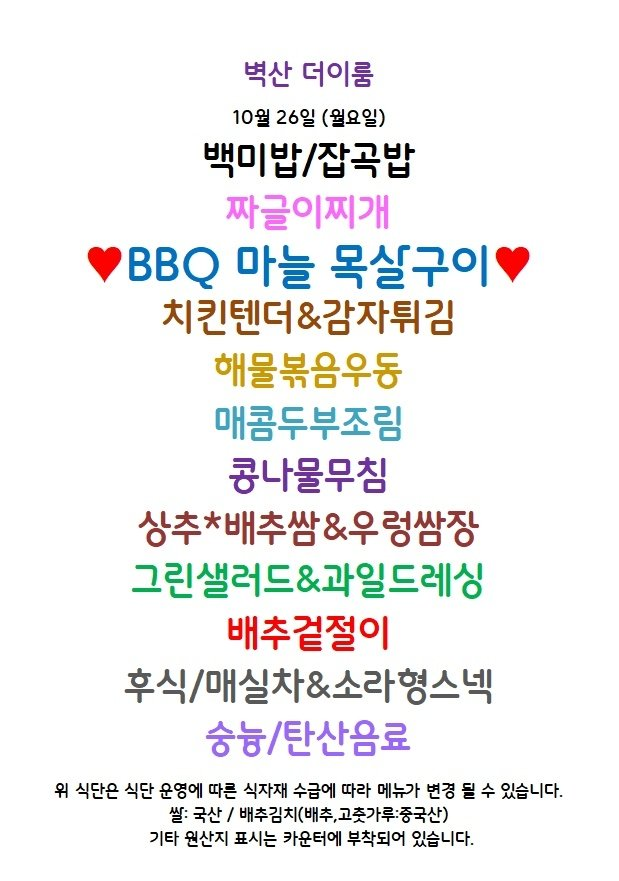
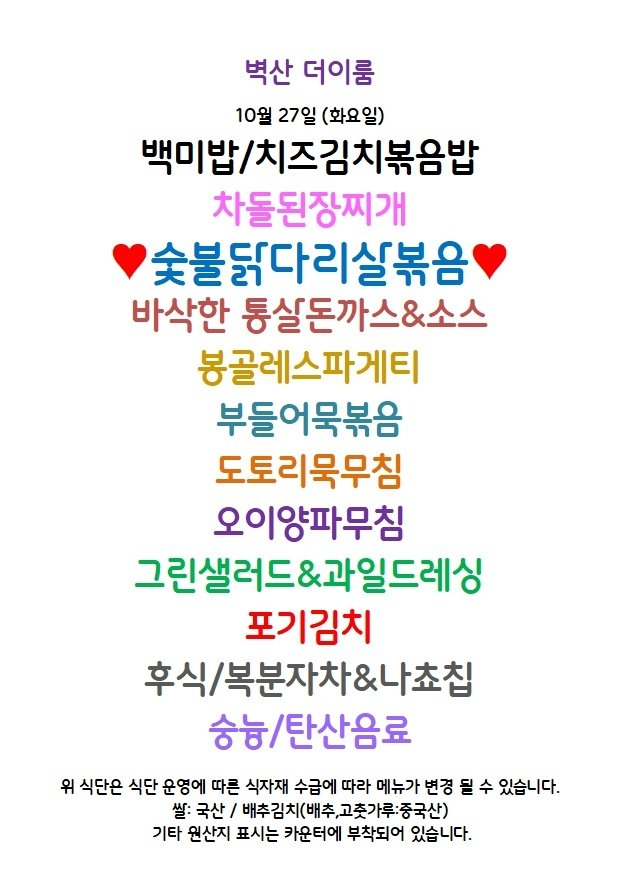
Update menu board assets

Changed region(s): [[0.0921, 0.0614, 0.9208, 0.9818]]

diff --git a/menu-today/index.html b/menu-today/index.html
@@ -209,7 +209,7 @@
 
     <section class="meta-bar">
       <div class="meta-card"><div class="meta-label">기준 날짜</div><div class="meta-value">2026년 10월 27일 화요일</div></div>
-      <div class="meta-card"><div class="meta-label">최종 가져온 시간</div><div class="meta-value">2026-10-27 09:03:07</div></div>
+      <div class="meta-card"><div class="meta-label">최종 가져온 시간</div><div class="meta-value">2026-10-27 09:17:39</div></div>
       <div class="meta-card"><div class="meta-label">확인 완료</div><div class="meta-value">9개 식당</div></div>
       <div class="meta-card"><div class="meta-label">준비중</div><div class="meta-value">3개 채널</div></div>
     </section>
@@ -225,7 +225,7 @@
             <div class="sub">현대테라타워 가산DK</div>
           </div>
         </div>
-        <div class="menu-inline-image"><img src="./images/imeal.png" alt="아이밀 식단 이미지"></div><div class="info-note">오늘 메뉴 미수집 상태입니다.</div>
+        <div class="menu-inline-image"><img src="./images/imeal.png" alt="아이밀 식단 이미지"></div><ul><li>어묵탕</li><li>춘천닭갈비</li><li>년 주 삐</li><li>바삭오징어부추전 &amp; 초간장</li><li>드 기르 A</li><li>들기름막국수</li><li>메란곤약조림</li><li>미역초무침 / 콩나물무침</li><li>가든샐러드</li><li>포기김치</li><li>백미밥 / 흑미밥</li><li>미역</li><li>무침 / 콩나물무침</li></ul>
       </article>
 
       <article class="restaurant-card">
@@ -265,7 +265,7 @@
             <div class="sub">가산비즈니스센터</div>
           </div>
         </div>
-        <div class="menu-inline-image"><img src="./images/raonfood.png" alt="구내식당라온푸드 식단 이미지"></div><ul><li>자돌김지찌개</li><li>고구마닭볶음탕</li><li>생선까스 / 타르타르</li><li>사각머묵볶음</li><li>후식요구르트</li><li>샐러드 &amp; 드레싱</li><li>고구마</li><li>음탐</li></ul>
+        <div class="menu-inline-image"><img src="./images/raonfood.png" alt="구내식당라온푸드 식단 이미지"></div><ul><li>자돌김지찌개</li><li>고구마닭볶음탕</li><li>생선까스 / 타르타르S</li><li>사각머묵볶음</li><li>후식요구르트</li><li>샐러드 &amp; 드레싱</li><li>고구마</li><li>음탐</li></ul>
       </article>
 
       <article class="restaurant-card">

diff --git a/guro-menu/index.html b/guro-menu/index.html
@@ -32,7 +32,7 @@
   </header>
   <section class="meta">
     <div><small>기준 날짜</small><strong>2026년 10월 27일 화요일</strong></div>
-    <div><small>최종 갱신</small><strong>2026-10-27 09:03:18</strong></div>
+    <div><small>최종 갱신</small><strong>2026-10-27 09:17:51</strong></div>
     <div><small>등록 식당</small><strong>5개</strong></div>
   </section>
   <div class="notice">공개 카카오 채널의 메뉴 이미지를 자동 수집하고 OCR로 정리합니다. 텍스트에 오타가 있을 수 있으니 식단 이미지를 함께 확인해 주세요.</div>
@@ -89,8 +89,8 @@
           <a class="channel" href="https://pf.kakao.com/_xdLzxgG" target="_blank" rel="noopener">원본 채널</a>
         </div>
         <img class="menu-image" src="./images/byucksan-theirum.png" alt="벽산더이룸 식단 이미지" loading="lazy">
-        <p class="message">최신 공개 식단 이미지의 텍스트입니다. 날짜는 원본 이미지를 확인해 주세요.</p>
-        <ul><li>백미밥/잡곡밥</li><li>짜글이찌개</li><li>¥BBOQ 마늘 목실구이</li><li>치킨텐더&amp;감자튀김</li><li>해물볶음우동</li><li>매콤두부조림</li><li>콤나물무침</li><li>상추*배추쌈&amp;우렁쌈장</li><li>그린샐러드&amp;과일드레싱</li><li>배주겉절이</li><li>후식/매실차&amp;소라형스넥</li><li>숭늉/탄산음료</li><li>쌀: 국산 / 배추김치(배추,고촛가루:중국산)</li><li>기타 원산지 표시는 카운터에 부착되어 있습니다</li></ul>
+        
+        <ul><li>백미밥/치즈김치볶음밥</li><li>차돌된장찌개</li><li>Veen 다리 싱볶음</li><li>바삭한 통실돈까스&amp;소스</li><li>봉골레스파게티</li><li>부들어묵볶음</li><li>도토리묵무침</li><li>오이양파무침</li><li>그린샐러드&amp;과일드레싱</li><li>포기김치</li><li>숭늉/탄산음료</li><li>BS: 국산 / 배추김치(배추,고추가루:중국산)</li><li>기타 원산지 표시는 카운터에 부착되어 있습니다</li></ul>
       </article>
 
       <article class="restaurant-card">
